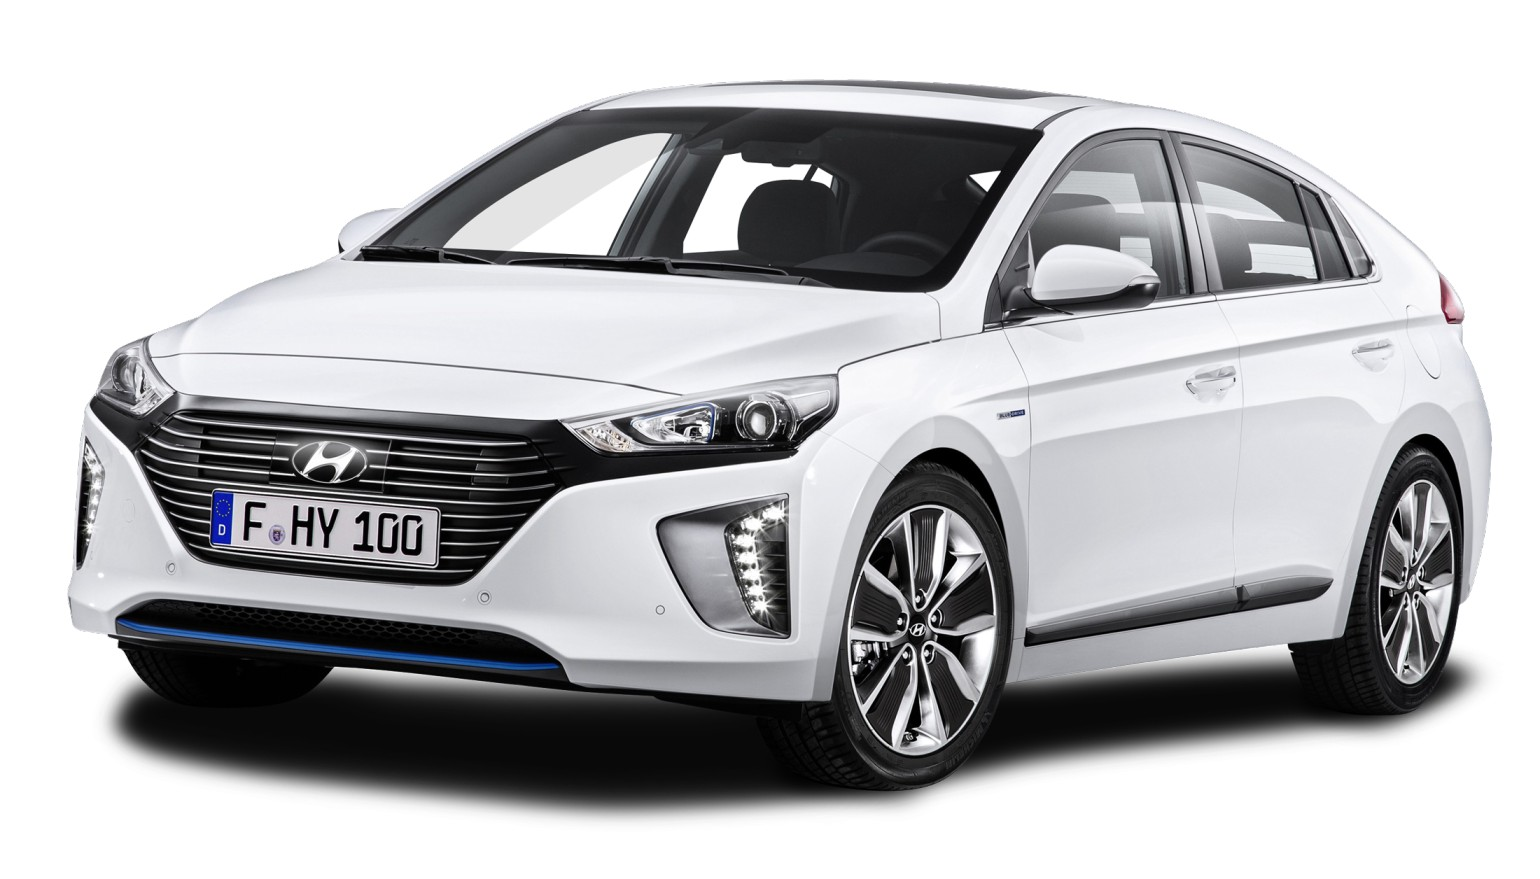
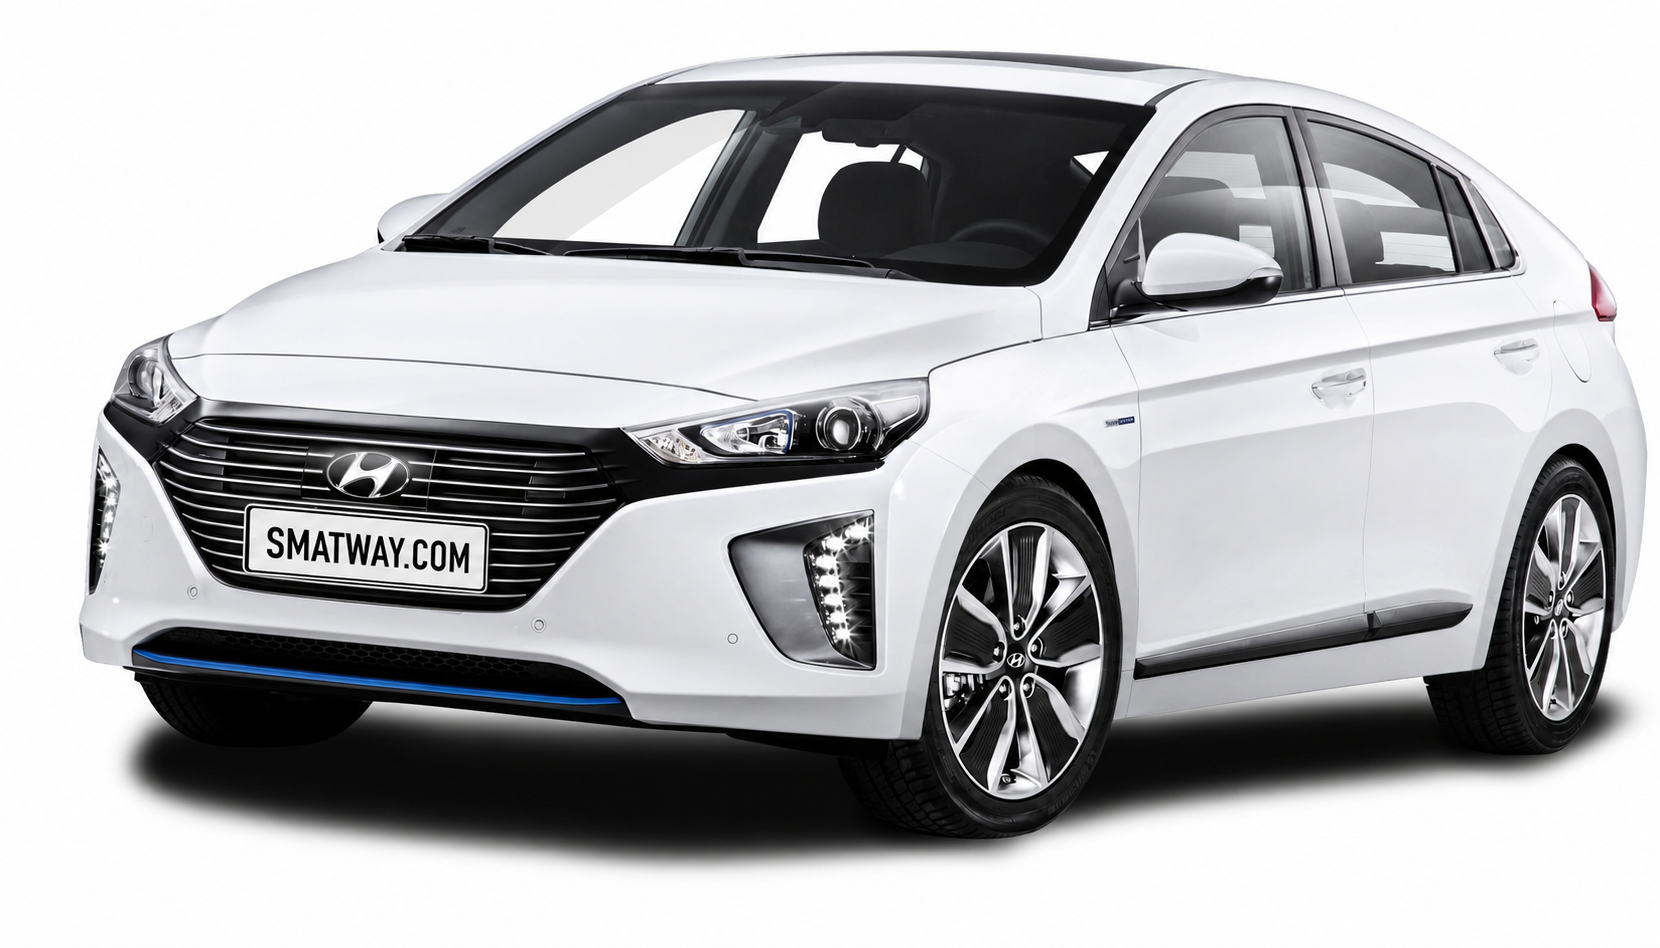
feat: add visual side panel with branding and trust badges to auth layout

diff --git a/apps/admin/app/(auth)/layout.tsx b/apps/admin/app/(auth)/layout.tsx
@@ -62,7 +62,7 @@ function LeftPanel() {
         <div className="relative w-full max-w-2xl">
           {/* eslint-disable-next-line @next/next/no-img-element */}
           <img
-            src="https://purepng.com/public/uploads/large/purepng.com-hyundai-ioniq-white-carcarvehicletransporthyundai-961524653528qvh7u.png"
+            src="/car-full.png"
             alt="SmatWay Vehicle"
             className="w-full h-auto object-contain brightness-110 contrast-105 drop-shadow-[0_0_40px_rgba(16,185,129,0.3)]"
           />